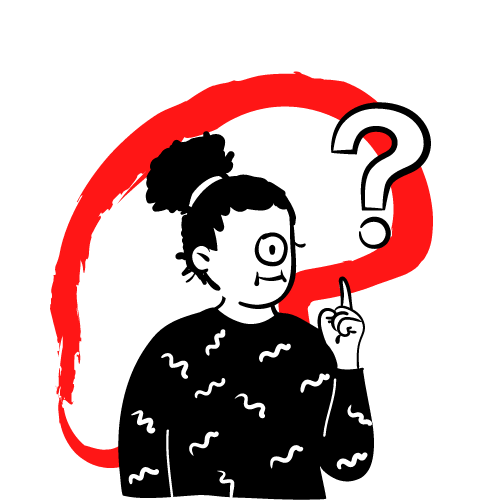
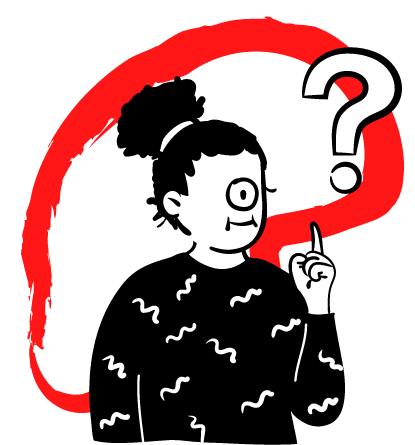
redimension images :+1:

diff --git a/Esquizofrenia/index.html b/Esquizofrenia/index.html
@@ -105,40 +105,35 @@
             <img src="/assets/depress.png" alt="">          
         </div>
       </div>
-      <div class="row" id="Sintomas">
-        <div class="col">
-          
-            <h1>Síntomas</h1>
-            <p>Los síntomas se dividen en tres categorías: positivos, negativos y cognitivos.</p><br>
-          </b>        
-        </div>
-      </div>
 
-      <div class="row">
-        <div class="col">
-          <h5>Síntomas negativos</h5>
+      <div class="row id="Sintomas"">
+        <div class="col  sintomas-text">
+          <h2>Síntomas negativos</h2>
           <p>Los síntomas "negativos" se refieren a abstinencia social, dificultad para mostrar emociones o problemas para funcionar normalmente. Las personas con síntomas negativos pueden requerir ayuda con las tareas diarias. Los síntomas negativos son más difíciles de reconocer como parte de la enfermedad. Los síntomas negativos incluyen:</p>
-          <ul>
-            
+          <img src="/assets/sad.png" alt="">
+          <ul>           
               <li>Hablar con voz apagada</li>
               <li>Falta de expresión facial, como una sonrisa o el ceño fruncido</li>
               <li>Dificultad para sentir la felicidad</li>
               <li>Hablar muy poco con otras personas, incluso cuando es importante.</li>
             </b>
           </ul>
-          <h5>Síntomas congnitivos</h5>
+          <h2>Síntomas congnitivos</h2>
           <p>Los síntomas cognitivos no son fáciles de ver, pero pueden dificultar que la persona mantenga un trabajo o se cuide. El nivel de la función cognitiva es uno de los mejores indicadores de la capacidad de una persona para mejorar su funcionamiento general. A menudo, estos síntomas se detectan solo cuando se realizan pruebas específicas. Los síntomas cognitivos incluyen:</p>
-          <ul>
-            
+          <img src="/assets/hard.png" alt="">
+          <ul>            
               <li>Dificultad para procesar información para la toma de decisiones</li>
               <li>Problemas para usar información inmediatamente después de aprenderla</li>
               <li>Dificultad para prestar atención</li>
             </b>
           </ul>
         </div>
-        <div class="col">
-          <h5>Síntomas positivos</h5>
+      </div>
+      <div class="row">
+        <div class="col  sintomas-text">
+          <h2>Síntomas positivos</h2>
           <p>Los síntomas "positivos" se conocen como positivos porque son comportamientos adicionales que generalmente no se ven en las personas sanas. Para algunas personas, estos síntomas van y vienen. Para otras, los síntomas se estabilizan con el tiempo. Estos síntomas pueden ser graves, aunque en otras ocasiones, no se notan. Los síntomas positivos incluyen:</p>
+          <img src="/assets/talktive.png" alt="">
           <ul>
             <li>Alucinaciones:</b> cuando una persona ve, oye, huele, sabe o siente cosas que no son reales. Muchas personas que tienen este trastorno oyen voces. Las personas que oyen voces pueden haber estado escuchándolas por mucho tiempo antes de que sus familiares y amigos se den cuenta de que tienen un problema.</li>
             <li> Delirios:</b>  cuando una persona cree cosas que no son ciertas. Por ejemplo, una persona puede creer que las personas que salen en la radio o en la televisión están hablando directamente con él o ella. A veces las personas que tienen delirios pueden creer que están en peligro o que otros están tratando de lastimarlos.</li>
@@ -148,6 +143,10 @@
         </div>
       </div>
     </div>
+
+    <footer>
+      <p>Camila Jimena Chavez Chinchilla | Bachillerato Técnico en Salud 1-1</p>    
+    </footer>
 
     <script src="https://cdn.jsdelivr.net/npm/bootstrap@5.0.2/dist/js/bootstrap.bundle.min.js" integrity="sha384-MrcW6ZMFYlzcLA8Nl+NtUVF0sA7MsXsP1UyJoMp4YLEuNSfAP+JcXn/tWtIaxVXM" crossorigin="anonymous"></script>
 </body>

diff --git a/Esquizofrenia/assets/style.css b/Esquizofrenia/assets/style.css
@@ -53,6 +53,10 @@ p{
 }
 
 #Sintomas{
+    text-align: center !important;
+}
+
+.sintomas-text{
     text-align: center;
 }
 
@@ -83,7 +87,7 @@ p{
 }
 
 .row{
-    margin-top: 30px;
+    margin-top: 30px !important;
     align-items: center;
 }
 
@@ -92,6 +96,15 @@ ul{
     color: white;
     padding: 10px;
     border-radius: 5px;
+}
+
+footer{
+    text-align: center;
+    background-color: white;
+    color: black;
+    height: 50px;
+    margin-top: 30px;
+    margin-bottom: 20px;
 }
 
 @media only screen and (max-width: 600px) {
@@ -107,7 +120,7 @@ ul{
     }
     .imagen{
         margin:0px;
-        transform: scale(0.8);
+        /* transform: scale(0.9); */
     }
     body{
         margin:0px;
